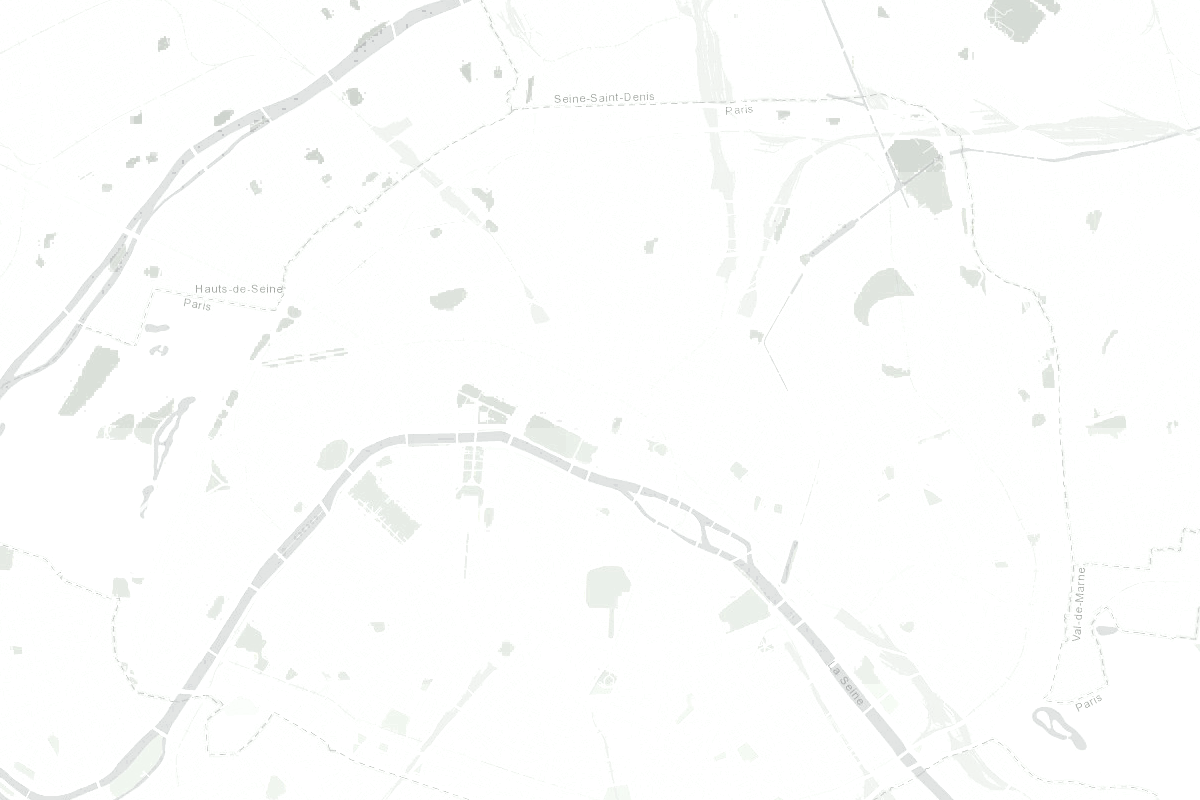
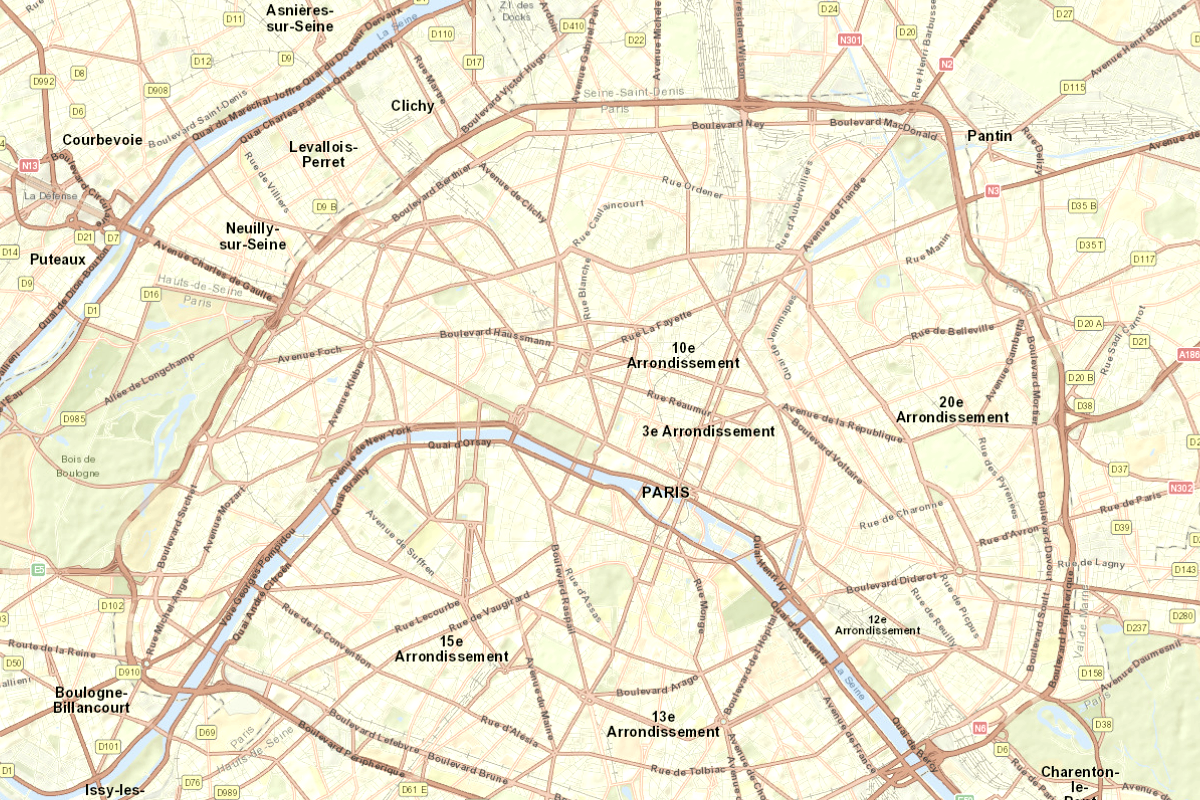
fix(site): Filipe home sidebar, London thumb, map contrast, hotels
- Auto-scroll active Mais destinos item and show a discreet scrollbar
- Replace Londres home-thumb flat-lay with Tower Bridge landmark crop
- Swap washed Light Gray 30s basemaps for clearer modern-light street maps
- Remove Imagem ilustrativa overlay from Hotéis sugeridos thumbs

diff --git a/src/app/globals.css b/src/app/globals.css
@@ -206,6 +206,28 @@ body {
   scrollbar-width: none;
 }
 
+/* Discreet scrollbar for Home "Mais destinos" — signals more destinations below */
+.mais-destinos-scroll {
+  scrollbar-gutter: stable;
+  scrollbar-width: thin;
+  scrollbar-color: rgba(8, 27, 107, 0.45) rgba(8, 27, 107, 0.08);
+}
+.mais-destinos-scroll::-webkit-scrollbar {
+  width: 6px;
+  height: 6px;
+}
+.mais-destinos-scroll::-webkit-scrollbar-track {
+  background: rgba(8, 27, 107, 0.06);
+  border-radius: 999px;
+}
+.mais-destinos-scroll::-webkit-scrollbar-thumb {
+  background-color: rgba(8, 27, 107, 0.42);
+  border-radius: 999px;
+}
+.mais-destinos-scroll::-webkit-scrollbar-thumb:hover {
+  background-color: rgba(8, 27, 107, 0.58);
+}
+
 /* Mobile FAB clearance — keep bottom content / anchors scrollable past the App button */
 html {
   scroll-padding-bottom: calc(5.5rem + env(safe-area-inset-bottom, 0px));
@@ -237,12 +259,12 @@ html {
  */
 .guide-city-map {
   --guide-map-zoom: 1.48;
-  background: linear-gradient(160deg, #eef2f6 0%, #f7f9fb 100%);
+  background: linear-gradient(160deg, #e8eef4 0%, #f3f6f9 100%);
 }
 
 .guide-city-map__img {
-  /* ESRI Light Gray / Positron-like assets + zoom; light contrast for street labels. */
-  filter: contrast(1.08) brightness(1.03);
+  /* Modern light street basemap + optical zoom; light polish only — streets/labels stay readable. */
+  filter: contrast(1.06) saturate(0.92) brightness(1.01);
   transform: scale(var(--guide-map-zoom));
   transform-origin: center;
 }
@@ -250,23 +272,23 @@ html {
 .guide-city-map__wash {
   pointer-events: none;
   background:
-    linear-gradient(180deg, rgba(255, 255, 255, 0.22) 0%, transparent 34%, rgba(15, 23, 42, 0.05) 100%),
-    linear-gradient(120deg, rgba(148, 163, 184, 0.06), transparent 52%);
+    linear-gradient(180deg, rgba(255, 255, 255, 0.06) 0%, transparent 28%, rgba(15, 23, 42, 0.04) 100%),
+    linear-gradient(120deg, rgba(100, 116, 139, 0.03), transparent 52%);
   mix-blend-mode: normal;
-  opacity: 0.36;
+  opacity: 0.14;
 }
 
 .guide-city-map__wash::after {
   content: '';
   position: absolute;
   inset: 0;
-  background: linear-gradient(180deg, rgba(248, 250, 252, 0.06), transparent 40%, rgba(15, 23, 42, 0.05));
+  background: linear-gradient(180deg, rgba(248, 250, 252, 0.02), transparent 40%, rgba(15, 23, 42, 0.03));
   mix-blend-mode: soft-light;
 }
 
 .guide-city-map__grid {
   pointer-events: none;
-  opacity: 0.08;
+  opacity: 0.04;
   background-image:
     linear-gradient(rgba(15, 23, 42, 0.05) 1px, transparent 1px),
     linear-gradient(90deg, rgba(15, 23, 42, 0.05) 1px, transparent 1px);
@@ -299,21 +321,21 @@ html {
 }
 
 .guide-city-map[data-map-theme='modern-light'] {
-  background: linear-gradient(160deg, #eef2f6 0%, #f7f9fb 100%);
+  background: linear-gradient(160deg, #e8eef4 0%, #f3f6f9 100%);
 }
 .guide-city-map[data-map-theme='modern-light'] .guide-city-map__img {
-  filter: contrast(1.08) brightness(1.03);
+  filter: contrast(1.06) saturate(0.92) brightness(1.01);
   transform: scale(var(--guide-map-zoom));
 }
 .guide-city-map[data-map-theme='modern-light'] .guide-city-map__wash {
   background:
-    linear-gradient(180deg, rgba(255, 255, 255, 0.22) 0%, transparent 34%, rgba(15, 23, 42, 0.05) 100%),
-    linear-gradient(120deg, rgba(148, 163, 184, 0.06), transparent 52%);
+    linear-gradient(180deg, rgba(255, 255, 255, 0.06) 0%, transparent 28%, rgba(15, 23, 42, 0.04) 100%),
+    linear-gradient(120deg, rgba(100, 116, 139, 0.03), transparent 52%);
   mix-blend-mode: normal;
-  opacity: 0.36;
+  opacity: 0.14;
 }
 .guide-city-map[data-map-theme='modern-light'] .guide-city-map__grid {
-  opacity: 0.08;
+  opacity: 0.04;
 }
 
 .guide-city-map[data-map-theme='dark-slate'] {

diff --git a/src/app/page.js b/src/app/page.js
@@ -1,7 +1,7 @@
 "use client";
 
 import { guideImage } from '@/lib/curatedGuideImages';
-import React, { useState, useEffect } from 'react';
+import React, { useState, useEffect, useRef } from 'react';
 import Link from 'next/link';
 import { CalendarDays, Clock3, Compass, MapPinned, Navigation, Sliders, ArrowRight } from 'lucide-react';
 
@@ -406,6 +406,7 @@ export default function Home() {
   const [currentSlide, setCurrentSlide] = useState(0);
   const [progress, setProgress] = useState(0);
   const [guideContinent, setGuideContinent] = useState('Todos');
+  const slideItemRefs = useRef([]);
 
   // Auto transition for Hero Carousel
   useEffect(() => {
@@ -422,6 +423,17 @@ export default function Home() {
       clearInterval(interval);
       clearInterval(progressInterval);
     };
+  }, [currentSlide]);
+
+  // Keep the active "Mais destinos" item visible when the carousel rotates or the user selects off-screen.
+  useEffect(() => {
+    const activeItem = slideItemRefs.current[currentSlide];
+    if (!activeItem) return;
+    activeItem.scrollIntoView({
+      behavior: 'smooth',
+      block: 'nearest',
+      inline: 'nearest'
+    });
   }, [currentSlide]);
 
   const selectSlide = (idx) => {
@@ -593,12 +605,15 @@ export default function Home() {
               <div className="lg:col-span-4 flex flex-col lg:border-l lg:border-brand-navy/10 lg:pl-6 xl:pl-8 mt-6 lg:mt-0 w-full min-w-0">
                 <span className="text-[11px] lg:text-[12px] font-black text-brand-navy/60 tracking-wide mb-2 lg:mb-3 block text-center lg:text-left">Mais destinos</span>
                 
-                <div className="flex flex-row lg:flex-col overflow-x-auto lg:overflow-x-hidden lg:overflow-y-auto lg:max-h-[min(36rem,calc(100vh-9rem))] gap-2 pb-4 lg:pb-1 custom-scrollbar-hide flex-nowrap lg:flex-nowrap w-full px-1 lg:px-0 snap-x lg:snap-none snap-mandatory scroll-smooth">
+                <div className="mais-destinos-scroll flex flex-row lg:flex-col overflow-x-auto lg:overflow-x-hidden lg:overflow-y-scroll lg:max-h-[min(36rem,calc(100vh-9rem))] gap-2 pb-4 lg:pb-1 flex-nowrap lg:flex-nowrap w-full px-1 lg:pr-1 lg:px-0 snap-x lg:snap-none snap-mandatory scroll-smooth">
                   {premiumSlides.map((slide, idx) => {
                     const isSelected = idx === currentSlide;
                     return (
                       <button
                         key={slide.id}
+                        ref={(el) => {
+                          slideItemRefs.current[idx] = el;
+                        }}
                         onClick={() => selectSlide(idx)}
                         className={`group flex items-center gap-2.5 p-2 lg:p-2.5 xl:p-3 rounded-xl border text-left transition-all duration-300 cursor-pointer shrink-0 w-[185px] lg:w-full snap-start ${
                           isSelected 

diff --git a/src/components/GuideThirtySeconds.js b/src/components/GuideThirtySeconds.js
@@ -120,7 +120,7 @@ function CityMapCanvas({ mapSrc, pins, activeId, onSelect, mode, animate = true 
       />
       <div className="guide-city-map__grid absolute inset-0" />
       <div
-        className={`absolute inset-0 bg-gradient-to-t from-slate-900/15 via-transparent to-slate-900/8 ${animate ? 'guide-enter-fade' : ''}`}
+        className={`absolute inset-0 bg-gradient-to-t from-slate-900/10 via-transparent to-slate-900/4 ${animate ? 'guide-enter-fade' : ''}`}
         style={animate ? { animationDelay: '120ms' } : undefined}
       />
 
@@ -365,7 +365,6 @@ export default function GuideThirtySeconds({ guide }) {
             {pins.map((pin, index) => {
               const active = pin.id === activeId;
               if (tab === 'hotels') {
-                const showIllustrative = pin.imageIllustrative !== false;
                 return (
                   <li key={pin.id} className="guide-enter" style={{ animationDelay: `${220 + index * 55}ms` }}>
                     <button
@@ -383,11 +382,6 @@ export default function GuideThirtySeconds({ guide }) {
                         <span className="absolute left-1.5 top-1.5 inline-flex h-5 w-5 items-center justify-center rounded-full bg-brand-navy/90 text-white shadow-sm">
                           <Hotel className="h-3 w-3" />
                         </span>
-                        {showIllustrative ? (
-                          <span className="absolute inset-x-0 bottom-0 bg-black/65 px-1 py-0.5 text-center text-[8px] font-bold uppercase tracking-wide text-white">
-                            Imagem ilustrativa
-                          </span>
-                        ) : null}
                       </span>
                       <span className="flex min-w-0 flex-1 flex-col justify-center py-0.5">
                         <span className="block font-headers text-[13px] font-extrabold leading-snug text-brand-navy [display:-webkit-box] [-webkit-line-clamp:2] [-webkit-box-orient:vertical] overflow-hidden">

diff --git a/src/app/mapa-opcoes/page.js b/src/app/mapa-opcoes/page.js
@@ -45,7 +45,7 @@ const ORIG_PINS = [
   }
 ];
 
-/** Geographic % for stitched ESRI Light Gray basemap (Paris z13 frame). */
+/** Geographic % for modern-light street basemap (Paris frame). */
 const GEO_PINS = [
   { ...ORIG_PINS[0], pin: { top: '60.6%', left: '30.3%' } },
   { ...ORIG_PINS[1], pin: { top: '58.2%', left: '51.3%' } },
@@ -58,7 +58,7 @@ export const MAP_STYLE_OPTIONS = [
     id: 'modern-light',
     name: 'Modern light (produção)',
     short: 'modern-light',
-    description: 'ESRI Light Gray / Positron-like + wash leve — produção em todos os guias.',
+    description: 'Street basemap claro + wash mínimo — ruas/labels legíveis sem sepia vintage.',
     mapSrc: '/images/maps/paris.png',
     pins: GEO_PINS,
     productionLike: true,

diff --git a/src/lib/guideVisuals.js b/src/lib/guideVisuals.js
@@ -1,4 +1,4 @@
-/** Modern light Positron-like basemaps (production). Vintage PNGs remain at /images/maps/vintage/* for /mapa-opcoes. */
+/** Modern light street basemaps (production). Vintage PNGs remain at /images/maps/vintage/* for /mapa-opcoes. */
 const CITY_MAPS = {
   paris: '/images/maps/paris.png',
   'nova-york': '/images/maps/nova-york.png',
